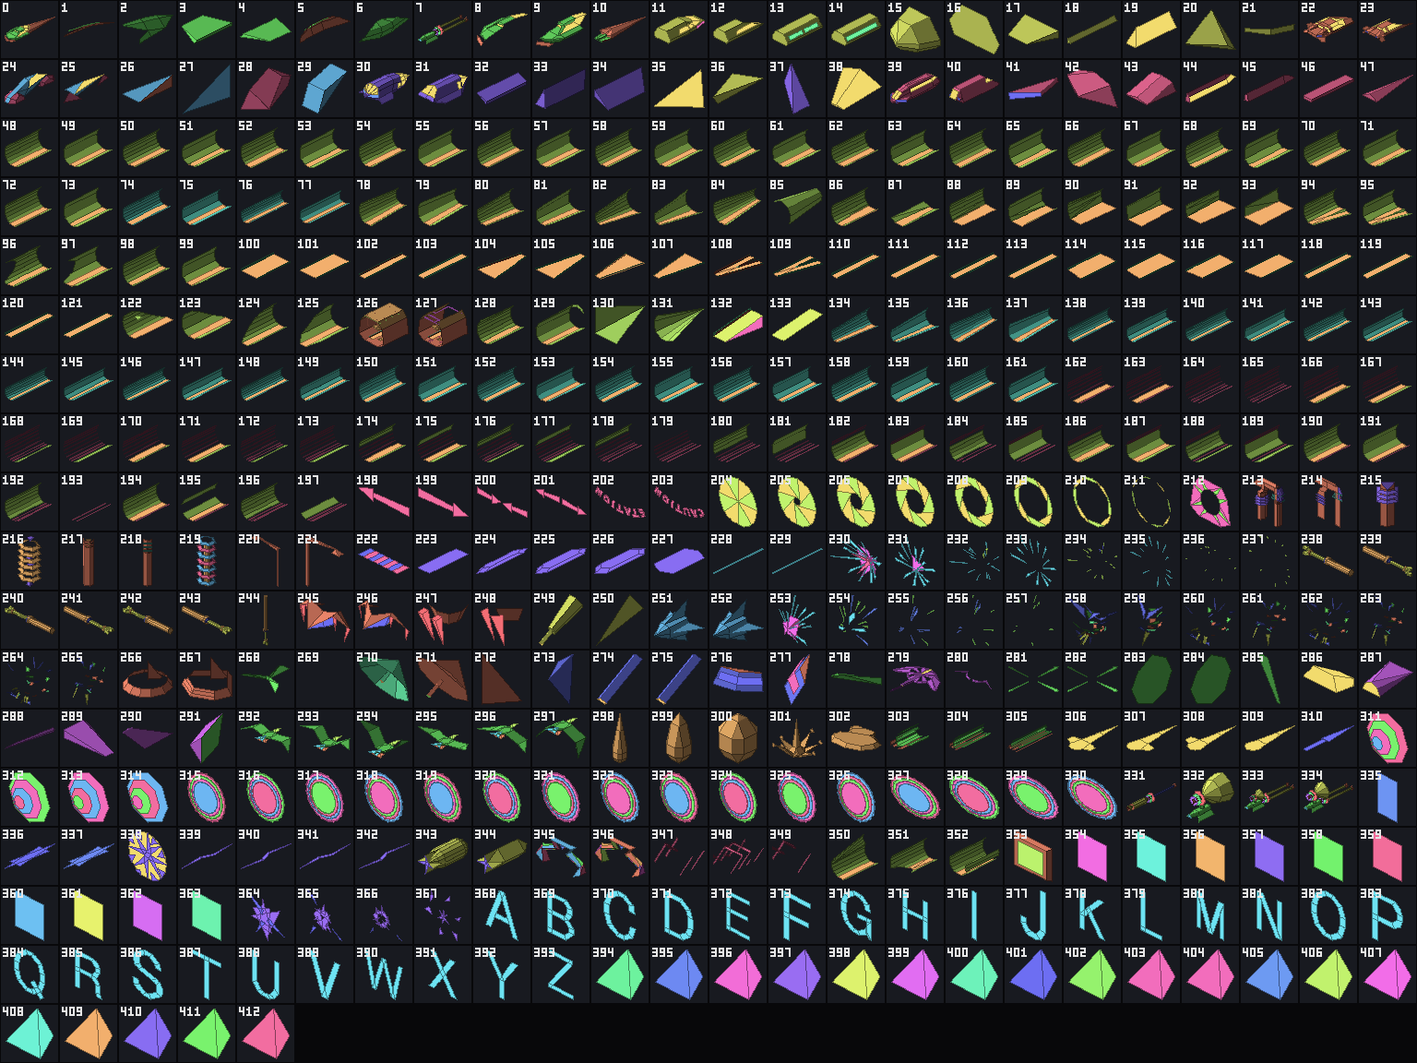
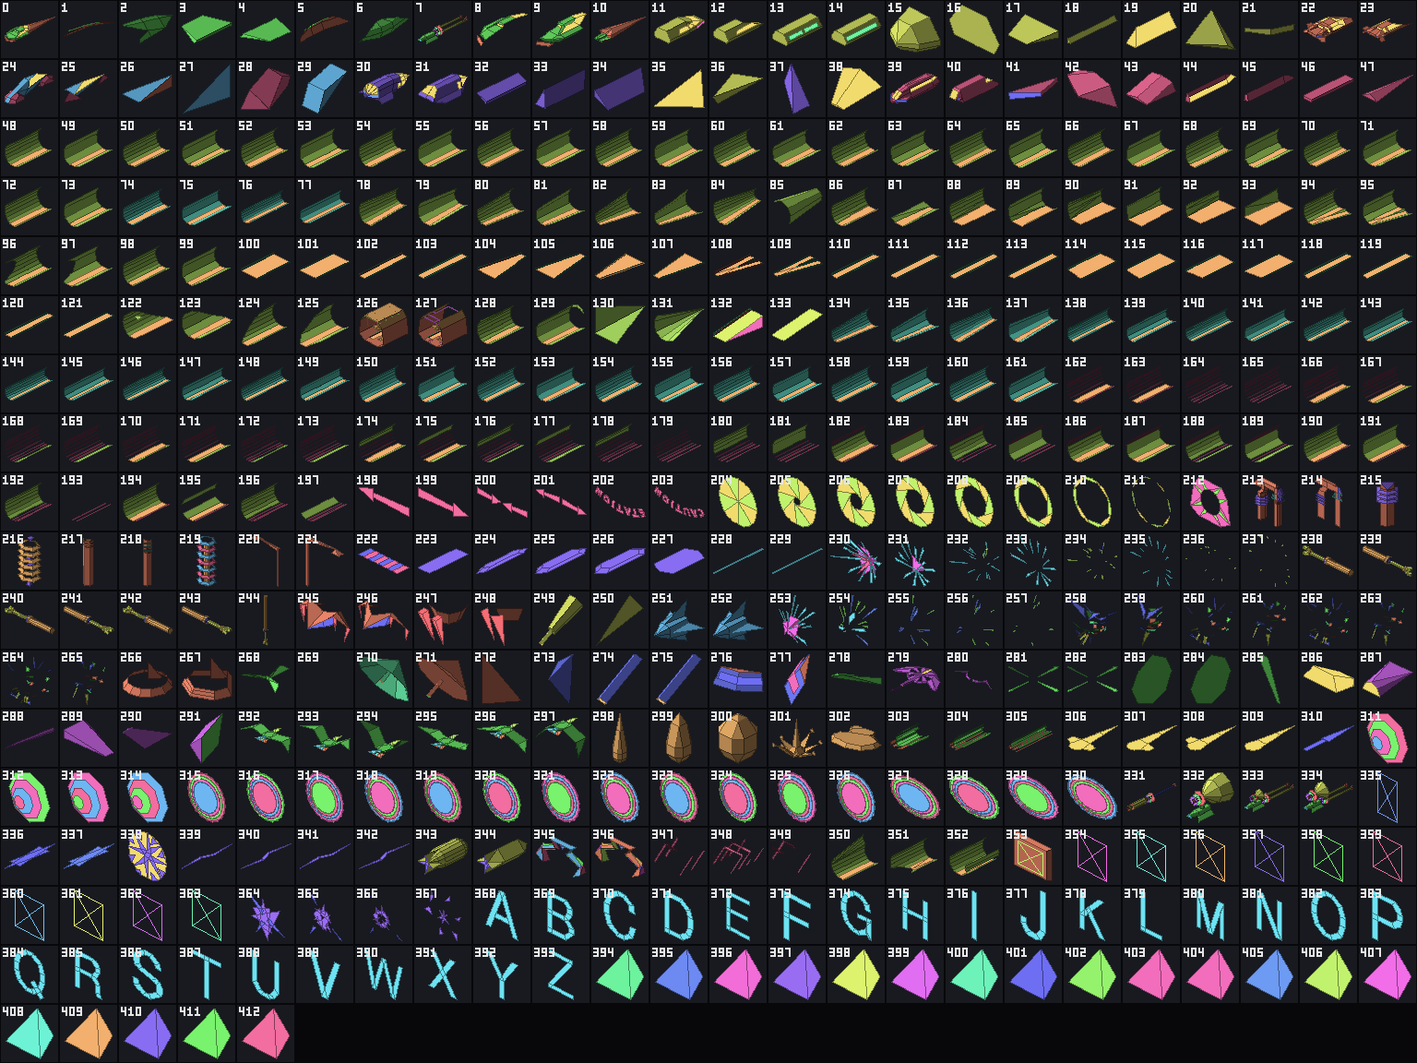
fix: type 1 faces are image commands, drawn as markers; 354-363 image_quad_1-10, 335 image_quad_large, 353 image_quad_framed (review r6 finding 3)
The ADSP sends a type 1 face to emit_image (0663 at 01D9) instead of the polygon path (04EB at
01DB), by DM 0038 = 1 from 0197-0198: its colour field is an image number and the GSP draws a
scaled box from corner 0 (docs/08 sections 1.4 and 4.4). The renderer and the viewer no longer
fill it as a flat panel: they draw its outline and diagonals, unfilled, in the index colour,
and docs/07 11.1, 11.2 and 11.5 say the picture shows only the corners. The names follow (223
panel_flat_a becomes panel_flat, its pair gone), test_type_1_faces_are_image_markers replaces
test_unshaded_faces_keep_the_index_colour and fails on the old fill, and the shape test checks
that image_quad_* is exactly the objects with a type 1 face. contact-sheet.png redrawn.

Claude-Session: https://claude.ai/code/session_01NfNYNFhkN3QMK6Y1zgoPtT

Changed region(s): [[0.7188, 0.7188, 1.0, 0.8438], [0.0, 0.8438, 0.1562, 0.875]]

diff --git a/tools/objects/viewer.html b/tools/objects/viewer.html
@@ -133,10 +133,24 @@ function build() {
   target = P([(lo[0] + hi[0]) / 2, (lo[1] + hi[1]) / 2, (lo[2] + hi[2]) / 2]);
   radius = Math.max(1, Math.hypot(hi[0] - lo[0], hi[1] - lo[1], hi[2] - lo[2]) / 2);
 
-  const pos = [], col = [];
+  // A type 1 face is an image command (emit_image 0663), not a polygon: the GSP draws the image
+  // its colour field names as a box from corner 0 (docs/08 4.4). It is marked by its outline and
+  // diagonals in its index colour, unfilled, as tools/objects/render.py does.
+  const pos = [], col = [], img = [], imgCol = [];
   mesh.faces.forEach((f, k) => {
     f.start = pos.length / 3;
     const c = faceRgb(mesh, f).map((x) => x / 255);
+    if (f.type === 1) {
+      const n = f.vertices.length;
+      const pairs = [...Array(n).keys()].map((i) => [i, (i + 1) % n]);
+      if (n === 4) pairs.push([0, 2], [1, 3]);
+      for (const [i, j] of pairs) {
+        const a = P(V[f.vertices[i]]), b = P(V[f.vertices[j]]);
+        img.push(a.x, a.y, a.z, b.x, b.y, b.z); imgCol.push(...c, ...c);
+      }
+      f.end = f.start;
+      return;
+    }
     for (let i = 1; i + 1 < f.vertices.length; i++) {
       for (const j of [0, i, i + 1]) {
         const p = P(V[f.vertices[j]]);
@@ -153,6 +167,10 @@ function build() {
     vertexColors: true, side: THREE.DoubleSide, polygonOffset: true,
     polygonOffsetFactor: 1, polygonOffsetUnits: 1 }));
   root.add(faceMesh);
+  const ig = new THREE.BufferGeometry();
+  ig.setAttribute("position", new THREE.Float32BufferAttribute(img, 3));
+  ig.setAttribute("color", new THREE.Float32BufferAttribute(imgCol, 3));
+  root.add(new THREE.LineSegments(ig, new THREE.LineBasicMaterial({ vertexColors: true })));
 
   const e = [];
   for (const f of mesh.faces) {

diff --git a/tools/test_render.py b/tools/test_render.py
@@ -186,14 +186,24 @@ def test_stored_normals_far_from_the_face_normal() -> None:
         assert winding(m, i) == "agrees", i
 
 
-def test_unshaded_faces_keep_the_index_colour() -> None:
-    """Type 1 faces (and colours 1Fh up) are not shaded (01C9-01CC, 0214): the fill is the index
-    colour itself; a shaded face is darker or equal."""
-    flat = render(quad(-0x4000, colour=9, type_=1), "rear", 32)
-    centre = 3 * (16 * 32 + 16)
-    assert tuple(flat.pixels[centre : centre + 3]) == index_rgb(9)
+def test_type_1_faces_are_image_markers() -> None:
+    """A type 1 face is an image command (0663 at 01D9, not the polygon path 04EB: 01D6-01D8),
+    so the renderer does not fill it: it draws its outline and diagonals in the index colour
+    (the image number's) and leaves the rest empty; a type 15 face of the same corners is filled,
+    shaded darker or equal (0214)."""
+    marker = render(quad(-0x4000, colour=9, type_=1), "rear", 32)
+    background = render(quad(-0x4000, colour=0), "rear", 32)
     lit = render(quad(-0x4000, colour=9), "rear", 32)
-    assert all(a <= b for a, b in zip(lit.pixels[centre : centre + 3], index_rgb(9), strict=True))
+
+    def at(c: Canvas, x: int, y: int) -> tuple[int, ...]:
+        o = 3 * (y * 32 + x)
+        return tuple(c.pixels[o : o + 3])
+
+    assert at(marker, 16, 16) == index_rgb(9)  # the diagonals cross at the centre
+    assert at(marker, 16, 9) == at(background, 16, 9)  # inside, off the diagonals: not filled
+    assert at(marker, 4, 16) == index_rgb(9)  # the outline
+    assert at(lit, 16, 9) != at(background, 16, 9)
+    assert all(a <= b for a, b in zip(at(lit, 16, 9), index_rgb(9), strict=True))
 
 
 def test_views_are_rotations() -> None:
@@ -254,7 +264,8 @@ def test_shape_words_match_the_geometry() -> None:
     every prism is one; a wedge is a solid of five to seven faces that is neither; a box has eight
     corners or more; a hexagon or an octagon has a face of six or eight vertices; a ring_round is
     circular in object space (equal x and y extents, centred on the z axis), a ring_oval is not;
-    a panel (but a folded or framed one) is flat."""
+    a panel (but a folded one) is flat; an image_quad is every object with a type 1 face (an
+    image command, 0663) and only those."""
     _, meshes, names = read_data(DATA)
     checked = 0
     tetrahedra, prisms = set(), set()
@@ -271,6 +282,7 @@ def test_shape_words_match_the_geometry() -> None:
             and not coplanar(corners)
         )
         is_prism = (len(corners), sides) == (6, [3, 3, 4, 4, 4])
+        assert name.startswith("image_quad_") == any(f.type == 1 for f in m.faces), name
         if is_tetrahedron:
             tetrahedra.add(n)
             assert name.startswith("tetrahedron_"), name
@@ -286,6 +298,8 @@ def test_shape_words_match_the_geometry() -> None:
             assert is_prism, name
         elif name.startswith("wedge_"):
             assert not is_tetrahedron and not is_prism and 5 <= len(m.faces) <= 7, name
+        elif name.startswith("image_quad_"):
+            assert all(len(f.vertices) == 4 for f in m.faces if f.type == 1), name
         elif name.startswith("box_"):
             assert len(corners) >= 8, name
         elif "hexagon" in name:
@@ -296,13 +310,13 @@ def test_shape_words_match_the_geometry() -> None:
             assert (min(xs), max(xs)) == (min(ys), max(ys)) == (-max(xs), max(xs)), name
         elif name.startswith("ring_oval_"):
             assert max(xs) - min(xs) > 1.2 * (max(ys) - min(ys)), name
-        elif name.startswith("panel_") and not name.startswith(("panel_folded", "panel_framed")):
+        elif name.startswith("panel_") and not name.startswith("panel_folded"):
             assert coplanar(corners), name
         else:
             continue
         checked += 1
     assert len(tetrahedra) == 28 and len(prisms) == 12
-    assert checked == 79
+    assert checked == 80
 
 
 def test_docs_table_names_are_the_manifest() -> None:

diff --git a/tools/objects/render.py b/tools/objects/render.py
@@ -7,10 +7,17 @@ sign of normal . first vertex in camera space, >= 0 looks away and 01E4 skips th
 the viewer at infinity along the view direction d that is normal . d >= 0). Faces of colour 0 are
 skipped as the ADSP skips them (019F -> 01E4). Edges are drawn darker, two-vertex faces as lines.
 
+Type 1 faces are not polygons: the ADSP sends them to `emit_image` (0663, 01D6-01D9: DM 0038
+set by 0197-0198 skips the CALL 04EB polygon path), whose command names an image by the face's
+colour field, and the GSP draws that image as a scaled axis-aligned box from corner 0
+(docs/08 sections 1.4 and 4.4). The image's pixels are not in the object ROMs, so a picture
+draws a type 1 face as a marker only: its outline and both diagonals, unfilled, in the colour of
+its index (= image number); the marker shows where the corners are, not what the GSP draws.
+
 Colours: the face's colour field (0-63) indexes runtime GSP tables that are not in the
 repository, so a picture uses a fixed made-up colour per index (`index_rgb`, a golden-ratio walk
 round the hue circle), lit flatly from the stored normal for the faces the ADSP shades (type 15
-and colour below 1Fh, 0214 at 01C7) and unlit for the others (type 1, colours 1Fh up), or the RGB
+and colour below 1Fh, 0214 at 01C7) and flat for colours 1Fh up and the type 1 markers, or the RGB
 of a palette file (`--palette`, a JSON list of 64 [r, g, b]) if one is given. The pictures
 therefore show shape, face order and which faces share a colour index, not the game's colours.
 
@@ -156,7 +163,8 @@ def _shade(rgb: RGB, k: float) -> RGB:
 
 def face_rgb(mesh: Mesh, face_index: int, palette: Sequence[RGB] | None = None) -> RGB:
     """The fill colour: the index's colour, times 0.35 + 0.65 max(0, n . light) / |n| for the
-    faces the ADSP shades (type other than 1, colour below 1Fh: 0214 at 01C7), unlit otherwise."""
+    faces the ADSP shades (type other than 1, colour below 1Fh: 0214 at 01C7), the index's colour
+    itself otherwise (a type 1 face's marker: its colour field is an image number, 0663)."""
     f = mesh.faces[face_index]
     base = palette[f.colour] if palette else index_rgb(f.colour)
     if f.type == TYPE_UNSHADED or f.colour >= 0x1F:
@@ -191,10 +199,14 @@ def render(
     zbuf = [float("inf")] * (size * size)
     eps = 0.5  # a face later in ROM order wins a tie with a coplanar one (decals, stripes)
     lines: list[tuple[int, RGB]] = []
+    images: list[tuple[int, RGB]] = []
     for k, f in enumerate(mesh.faces):
         if f.colour == 0 or (cull and not face_visible(mesh, k, view)):
             continue
         rgb = face_rgb(mesh, k, palette)
+        if f.type == TYPE_UNSHADED:
+            images.append((k, rgb))  # an image command (0663), not a polygon: a marker only
+            continue
         poly = [scr[i] for i in f.vertices]
         if len(poly) >= 3:
             _fill(canvas, zbuf, poly, rgb, eps)
@@ -206,6 +218,12 @@ def render(
             n = len(poly)
             for i in range(n if n > 2 else 1):
                 _line(canvas, zbuf, poly[i], poly[(i + 1) % n], dark, eps + 1.0)
+    for k, rgb in images:
+        poly = [scr[i] for i in mesh.faces[k].vertices]
+        n = len(poly)
+        pairs = [(i, (i + 1) % n) for i in range(n)] + ([(0, 2), (1, 3)] if n == 4 else [])
+        for i, j in pairs:
+            _line(canvas, zbuf, poly[i], poly[j], rgb, eps + 1.0)
     return canvas
 
 

diff --git a/docs/07-objects.md b/docs/07-objects.md
@@ -723,7 +723,7 @@ name column is the manifest's (everywhere).
 | 220 | 1 | C184 | 15 | 9 | 9 | -481..28 | -81..520 | -49..20 | 138 | AP | 0-1,3-4,6-10,12-23 | lamp_post_a |
 | 221 | 1 | C218 | 16 | 9 | 9 | -29..480 | -81..520 | -21..48 | 139 | AP | 0-1,3-4,6-10,12-23 | lamp_post_b |
 | 222 | 1 | C2B0 | 18 | 1 | 8 | -1600..1600 | 0..0 | -480..480 | 140 | P | 0-5,9-12,23-24 | strip_striped |
-| 223 | 1 | C330 | 4 | 1 | 1 | -250..250 | -2..2 | -800..800 | 141 | - | - | panel_flat_a |
+| 223 | 1 | C330 | 4 | 1 | 1 | -250..250 | -2..2 | -800..800 | 141 | - | - | panel_flat |
 | 224 | 1 | C350 | 12 | 7 | 7 | -125..125 | 6..86 | -1056..1056 | 142 | - | 4,17,22 | plank_bevelled_a |
 | 225 | 1 | C3CC | 12 | 7 | 7 | -192..192 | 6..86 | -1056..1056 | 143 | - | 2 | plank_bevelled_b |
 | 226 | 1 | C448 | 12 | 7 | 7 | -250..250 | 6..80 | -1056..1056 | 144 | AP | 1-4,7-8,10,15-22 | plank_bevelled_c |
@@ -835,7 +835,7 @@ name column is the manifest's (everywhere).
 | 332 | 1 | F2D4 | 106 | 51 | 63 | -51..50 | 60..170 | -161..-23 | 233 | - | - | turret_dish |
 | 333 | 2 | 2BFC | 202 | 58 | 88 | -27..26 | 54..130 | -161..92 | 234 | - | 3,10,13,19 | turret_twin_guns_a |
 | 334 | 2 | 31E0 | 210 | 56 | 88 | -41..40 | 54..160 | -161..92 | 235 | - | - | turret_twin_guns_b |
-| 335 | 1 | F6AC | 4 | 2 | 2 | -385..384 | 0..1248 | 0..0 | 236 | - | - | panel_flat_b |
+| 335 | 1 | F6AC | 4 | 2 | 2 | -385..384 | 0..1248 | 0..0 | 236 | - | - | image_quad_large |
 | 336 | 1 | F6D4 | 7 | 3 | 3 | -248..248 | -2..2 | -496..2008 | 237 | P | 0 | star_flat_a |
 | 337 | 1 | F70C | 6 | 2 | 2 | -248..248 | -2..2 | -496..2008 | 238 | - | 2-3,5-21 | star_flat_b |
 | 338 | 1 | F738 | 59 | 9 | 29 | -1600..1600 | 0..3122 | -448..-320 | 239 | - | 8 | star_disc |
@@ -853,17 +853,17 @@ name column is the manifest's (everywhere).
 | 350 | 0 | F46C | 56 | 27 | 27 | -1611..1611 | -1533..3182 | -3409..3212 | 250 | - | 8 | tunnel_roof_rising |
 | 351 | 0 | F63C | 41 | 21 | 21 | -1601..1600 | -1629..1560 | -3304..3205 | 251 | - | 8 | tunnel_floor_notched |
 | 352 | 0 | F7A4 | 40 | 19 | 19 | -1604..1600 | -1574..1548 | -3254..3254 | 252 | - | 8 | tunnel_divided |
-| 353 | 1 | FD8C | 12 | 6 | 7 | -1025..1024 | -769..768 | -41..200 | 253 | A | - | panel_framed |
-| 354 | 1 | FE00 | 4 | 1 | 1 | -21..20 | -21..20 | 0..0 | 254 | AP | 0-23 | panel_unlit_1 |
-| 355 | 1 | FE20 | 4 | 1 | 1 | -21..20 | -21..20 | 0..0 | 255 | AP | 0-23 | panel_unlit_2 |
-| 356 | 1 | FE40 | 4 | 1 | 1 | -21..20 | -21..20 | 0..0 | 256 | AP | 0-23 | panel_unlit_3 |
-| 357 | 1 | FE60 | 4 | 1 | 1 | -21..20 | -21..20 | 0..0 | 257 | AP | 0-23 | panel_unlit_4 |
-| 358 | 1 | FE80 | 4 | 1 | 1 | -21..20 | -21..20 | 0..0 | 258 | AP | 0-23 | panel_unlit_5 |
-| 359 | 1 | FEA0 | 4 | 1 | 1 | -21..20 | -21..20 | 0..0 | 259 | AP | 0,3,6-10,12-16,18-20,22 | panel_unlit_6 |
-| 360 | 1 | FEC0 | 4 | 1 | 1 | -21..20 | -21..20 | 0..0 | 260 | AP | 0,3,6-10,12-16,18-20,22 | panel_unlit_7 |
-| 361 | 1 | FEE0 | 4 | 1 | 1 | -21..20 | -21..20 | 0..0 | 261 | AP | 0,3,6-10,12-16,18-20,22 | panel_unlit_8 |
-| 362 | 1 | FF00 | 4 | 1 | 1 | -21..20 | -21..20 | 0..0 | 262 | AP | 0,3,6-10,12-16,18-20,22 | panel_unlit_9 |
-| 363 | 1 | FF20 | 4 | 1 | 1 | -21..20 | -21..20 | 0..0 | 263 | AP | 0,3,6-10,12-16,18-20,22 | panel_unlit_10 |
+| 353 | 1 | FD8C | 12 | 6 | 7 | -1025..1024 | -769..768 | -41..200 | 253 | A | - | image_quad_framed |
+| 354 | 1 | FE00 | 4 | 1 | 1 | -21..20 | -21..20 | 0..0 | 254 | AP | 0-23 | image_quad_1 |
+| 355 | 1 | FE20 | 4 | 1 | 1 | -21..20 | -21..20 | 0..0 | 255 | AP | 0-23 | image_quad_2 |
+| 356 | 1 | FE40 | 4 | 1 | 1 | -21..20 | -21..20 | 0..0 | 256 | AP | 0-23 | image_quad_3 |
+| 357 | 1 | FE60 | 4 | 1 | 1 | -21..20 | -21..20 | 0..0 | 257 | AP | 0-23 | image_quad_4 |
+| 358 | 1 | FE80 | 4 | 1 | 1 | -21..20 | -21..20 | 0..0 | 258 | AP | 0-23 | image_quad_5 |
+| 359 | 1 | FEA0 | 4 | 1 | 1 | -21..20 | -21..20 | 0..0 | 259 | AP | 0,3,6-10,12-16,18-20,22 | image_quad_6 |
+| 360 | 1 | FEC0 | 4 | 1 | 1 | -21..20 | -21..20 | 0..0 | 260 | AP | 0,3,6-10,12-16,18-20,22 | image_quad_7 |
+| 361 | 1 | FEE0 | 4 | 1 | 1 | -21..20 | -21..20 | 0..0 | 261 | AP | 0,3,6-10,12-16,18-20,22 | image_quad_8 |
+| 362 | 1 | FF00 | 4 | 1 | 1 | -21..20 | -21..20 | 0..0 | 262 | AP | 0,3,6-10,12-16,18-20,22 | image_quad_9 |
+| 363 | 1 | FF20 | 4 | 1 | 1 | -21..20 | -21..20 | 0..0 | 263 | AP | 0,3,6-10,12-16,18-20,22 | image_quad_10 |
 | 364 | 2 | 3A50 | 18 | 1 | 6 | -324..364 | -288..296 | 0..0 | 264 | - | - | burst_star_1 |
 | 365 | 2 | 3ABC | 27 | 1 | 9 | -480..584 | -500..536 | 0..0 | 265 | - | 22 | burst_star_2 |
 | 366 | 2 | 3B58 | 36 | 1 | 12 | -684..884 | -684..756 | 0..0 | 266 | - | 22 | burst_star_3 |
@@ -982,7 +982,13 @@ classified here.
 at run time (docs/08); they are not in the repository. A picture uses a made-up colour per index
 (`index_rgb`: hue = index × golden ratio mod 1, saturation 0.55, value 0.95), shaded by 0.35 +
 0.65 · max(0, normal · light) for the faces the ADSP shades (type 15 with colour below 1Fh, 0214
-at 01C7) and flat for the others (type 1 and colours 1Fh up). The pictures therefore show shape,
+at 01C7) and flat for colours 1Fh up. Type 1 faces (objects 335 and 353-363) are not drawn as
+polygons: the ADSP turns them into image commands (`emit_image` 0663 at 01D9 instead of the
+polygon path 04EB at 01DB, by DM 0038 = 1 from 0197-0198), the colour field names an image and the
+GSP draws it as a scaled axis-aligned box from corner 0 (docs/08 sections 1.4 and 4.4); the
+image's pixels are not in the object ROMs, so a picture marks such a face by its outline and both
+diagonals, unfilled, in its index colour, which shows where its corners are and nothing of the
+image. The pictures therefore show shape,
 face order and which faces share an index, **not the game's colours** (the player's vehicle is
 red on screen; it is green and orange here). `--palette FILE` takes a JSON list of 64 [r, g, b]
 instead, for a palette captured from MAME into build/ (never committed); no such capture exists
@@ -1044,8 +1050,8 @@ the frames repeat).
 | 213-252 | `arch`, `pillar_*`, `coil_stack_*`, `lamp_post_*`, `burst_1`-`4` (+ `_far`), `rod_clamped_*`, `fighter_spiky_a/b`, ... | arches, pillars, lamp posts, flat pieces, bursts of shards, rods with clamps, spiky craft | 252 by constant descriptor A3h (0x0364D4) | level runs 32/40, levels 0-24; 35 of 40 with the objtrace runs (242-244 only there) | shape |
 | 253-310 | `shards_1`-`5`, `debris_1`-`4`, `umbrella`, `fan`, `winged_craft_1`-`6`, `crown_spiked`, `saucer_lumpy`, `dart_1`-`4`, ... | sprays of shards, debris, domes, fans, a winged craft in six wing positions, darts; the tetrahedra 272 and 273, the prisms 289 and 291, the wedges 287 and 290 (seven corners each) | 292-297 one animated family: an entity created with descriptor C1h, object 292 (0x033BD2, 0x0414A8, through 0x02EF4C), is stepped through descriptors C1h-C6h, objects 292-297, and back to C1h, by 0x037CF4-0x037D1E (every 5 ticks of +69h) and 0x040F10-0x040F3A (every 2 ticks of +66h) (section 3.2); 301/302 (CAh/CBh), 306 (CFh), 309 (D2h) by constant descriptors | level runs 47/58, levels 0-24 | shape |
 | 311-330 | `target_octagon_1`-`4`, `ring_round_1`-`12`, `ring_oval_1`-`4` | 311-314: concentric octagons; 315-326: concentric circular rings (8 faces of 10 vertices) centred on the z axis, every vertex at one of a few radii (992, 1175, 1354 and 1536 in 315), in three sizes, four objects each with the same radii: outer radius 1536 (315-318), 1152 (319-322) and 768 (323-326); 327-330: oval rings, 3840 × 2304 (x -1920..1920, y -1632..672 in 327), centred at y -480. The contact sheet's three-quarter view foreshortens the circles of 315-326 into ovals; `render --view rear` shows them round | | level runs 4/20, levels 5-6,8,10,13,15,18-19,21-22 | shape |
-| 331-352 | `cannon_long`, `turret_*`, `star_disc`, `zigzag_*`, `capsule_star`, `chain_*`, `girders_*`, `tunnel_roof_rising`, `tunnel_floor_notched`, `tunnel_divided` | guns on mounts, a star disc, zigzag lines, girders, three special tunnel sections | 343/344 pair | level runs 14/22, levels 0,2-3,5-21 | tunnels identified, the rest shape |
-| 353-367 | `panel_framed`, `panel_unlit_1`-`10`, `burst_star_1`-`4` | a framed panel, flat type-1 quadrilaterals (unshaded), star bursts | | level runs 13/15, levels 0-23; 14 of 15 with the objtrace runs (353 only there) | shape |
+| 331-352 | `cannon_long`, `turret_*`, `image_quad_large`, `star_disc`, `zigzag_*`, `capsule_star`, `chain_*`, `girders_*`, `tunnel_roof_rising`, `tunnel_floor_notched`, `tunnel_divided` | guns on mounts, a star disc, zigzag lines, girders, three special tunnel sections; 335: two type 1 faces on one 769 × 1248 rectangle (image 1, an image quad as 354-363) | 343/344 pair | level runs 14/22, levels 0,2-3,5-21 | tunnels identified, the rest shape |
+| 353-367 | `image_quad_framed`, `image_quad_1`-`10`, `burst_star_1`-`4` | 353: a frame of shaded faces around one type 1 face; 354-363: one type 1 face each (colour fields 3-12); star bursts. A type 1 face is an image command, not a polygon (`emit_image` 0663, reached at 01D9 when DM 0038 = 1, set by 0197-0198; the polygon path 04EB at 01DB is skipped): the colour field is an image number and the GSP draws the image as a scaled box from corner 0 (docs/08 sections 1.4 and 4.4); the renderer marks each by its outline and diagonals only (section 11.1) | | level runs 13/15, levels 0-23; 14 of 15 with the objtrace runs (353 only there) | shape |
 | 368-393 | `letter_a`-`letter_z` | the letters A-Z, one per object | | level runs 18/26, levels 22 | identified by shape (where the game shows them is not established) |
 | 394-412 | `tetrahedron_1`-`19` | 19 tetrahedra of one geometry with separate vertices per face, differing only in colour except 403 and 404, which are identical (colour 50) | | level runs 19/19, levels 22 | shape |
 
@@ -1165,7 +1171,8 @@ object by number (or the arrows) or by name (a search box over the manifest's na
 orbit, wheel to zoom; toggles for wireframe, the ADSP's culling (normal · (first vertex - eye) <
 0, from the current eye), face normals (from each face's centroid), axes, vertex and face
 indices. It shows the counts, the face types and the bounding box, and the colours of section
-11.1. Object space is shown as Three.js (x, y, -z), so the left-handed data is not mirrored.
+11.1; type 1 faces get the renderer's marker (outline and diagonals, unfilled), drawn whatever
+the culling toggle says. Object space is shown as Three.js (x, y, -z), so the left-handed data is not mirrored.
 **Editing**: change a vertex in `data/objects/NNN.json` and press *reload* (or tick *reload
 every second*): the page re-reads the file without cache and redraws; `make check` then shows
 what the edit does to the ROM (section 8.3).

diff --git a/CLAUDE.md b/CLAUDE.md
@@ -57,7 +57,7 @@ A complete source reverse-engineering of S.T.U.N. Runner (Atari Games, 1989, MAM
 - 2026-11-04 (M3a): build wiring: `data/objects` is the source of the object image; `tools/objects asm` generates `build/obj/page{0,1,2}.asm` (`dc.w`/`dcb.w`, an assert per structure) and `asm/obj/objects.asm` includes them; `make check` proves the committed meshes rebuild the six files. Coverage: bytes generated from committed data count as `data`/`fill` under the generated file's path, no new class (blob 100.0% -> 74.0%). `tools/test_build.py` plants the encoded object image into its synthetic set; a CI test checks the four chips of pages 1 and 2 against MAME's hashes from the committed data alone.
 - 2026-11-04 (M3a): residue rule outcome: one word, 0:019E (after the directory's FFFF), is unexplained; it stays an incbin slice of `build/stunrun-obj.bin` (2 bytes, position in the manifest, never its value), so the page-0 chips need the ROM image to rebuild. Pending Jesus (M3a report card): keep it as a blob, or accept it as a named constant.
 - 2026-11-04 (M3a): `tools/mame/objtrace.lua` (`make objtrace`) is the object-ROM oracle: every ADSP read sequence (PC, page, address, words) in attract mode and a game, checked against the decoder by `tools/test_objects.py`; the committed summary `artifacts/objtrace-summary.json` (rewritten by `make objtrace`) holds addresses and counts only. Each run starts from its own empty NVRAM and cfg directories under `build/mame/state-<run>/`, never the archive NVRAM, so the trace is reproducible, and the sequence in flight when a run stops is dropped (`# open_at_end`), not recorded.
-- 2026-11-04 (M3c): `tools/objects render` (tools/objects/render.py, standard library) is the object renderer: parallel views (three-quarter, rear, top, side, all), z-buffer, the ADSP's culling by stored normal (01A8-01A9), made-up colours per colour index (the game's colours are run-time GSP state; `--palette` takes a captured one from build/ only). Object space is left-handed: x right, y up, z forwards (the projection at 04C4-04C9).
+- 2026-11-04 (M3c): `tools/objects render` (tools/objects/render.py, standard library) is the object renderer: parallel views (three-quarter, rear, top, side, all), z-buffer, the ADSP's culling by stored normal (01A8-01A9), made-up colours per colour index (the game's colours are run-time GSP state; `--palette` takes a captured one from build/ only); type 1 faces are image commands (0663), not polygons, and are drawn as markers only (outline and diagonals, unfilled), as is the viewer. Object space is left-handed: x right, y up, z forwards (the projection at 04C4-04C9).
 - 2026-11-04 (M3c): object names are final in `data/objects/manifest.json`: unique lowercase label identifiers, far LOD objects = near name + `_far` (checked against the descriptor pairs at 0x048F9C with the reference set), numbered families for variants, tunnel bends named by their measured end cut (nearest degree; the gentle bends' 7.5° x cut is written 7 in every radius); a name claims a game role only with evidence (docs/07 section 11.2), otherwise it describes the shape; shape words (`tetrahedron_`, `prism_`, `wedge_`, `box_`) name the topology both ways, checked by `tools/test_render.py`. The encoder ignores names.
 - 2026-11-04 (M3c): committed object pictures live in `artifacts/objects/`, declared in `render.PICTURES` and redrawn by `make pictures`; `tools/test_render.py` compares their pixels (not the zlib stream) with what data/objects draws, and checks docs/07's name column against the manifest.
 - 2026-11-04 (M3c): `tools/objects/viewer.html` (Three.js r128 from cdnjs, `make view`) is the interactive mesh viewer, a verification aid; it reads data/objects over a local HTTP server.
